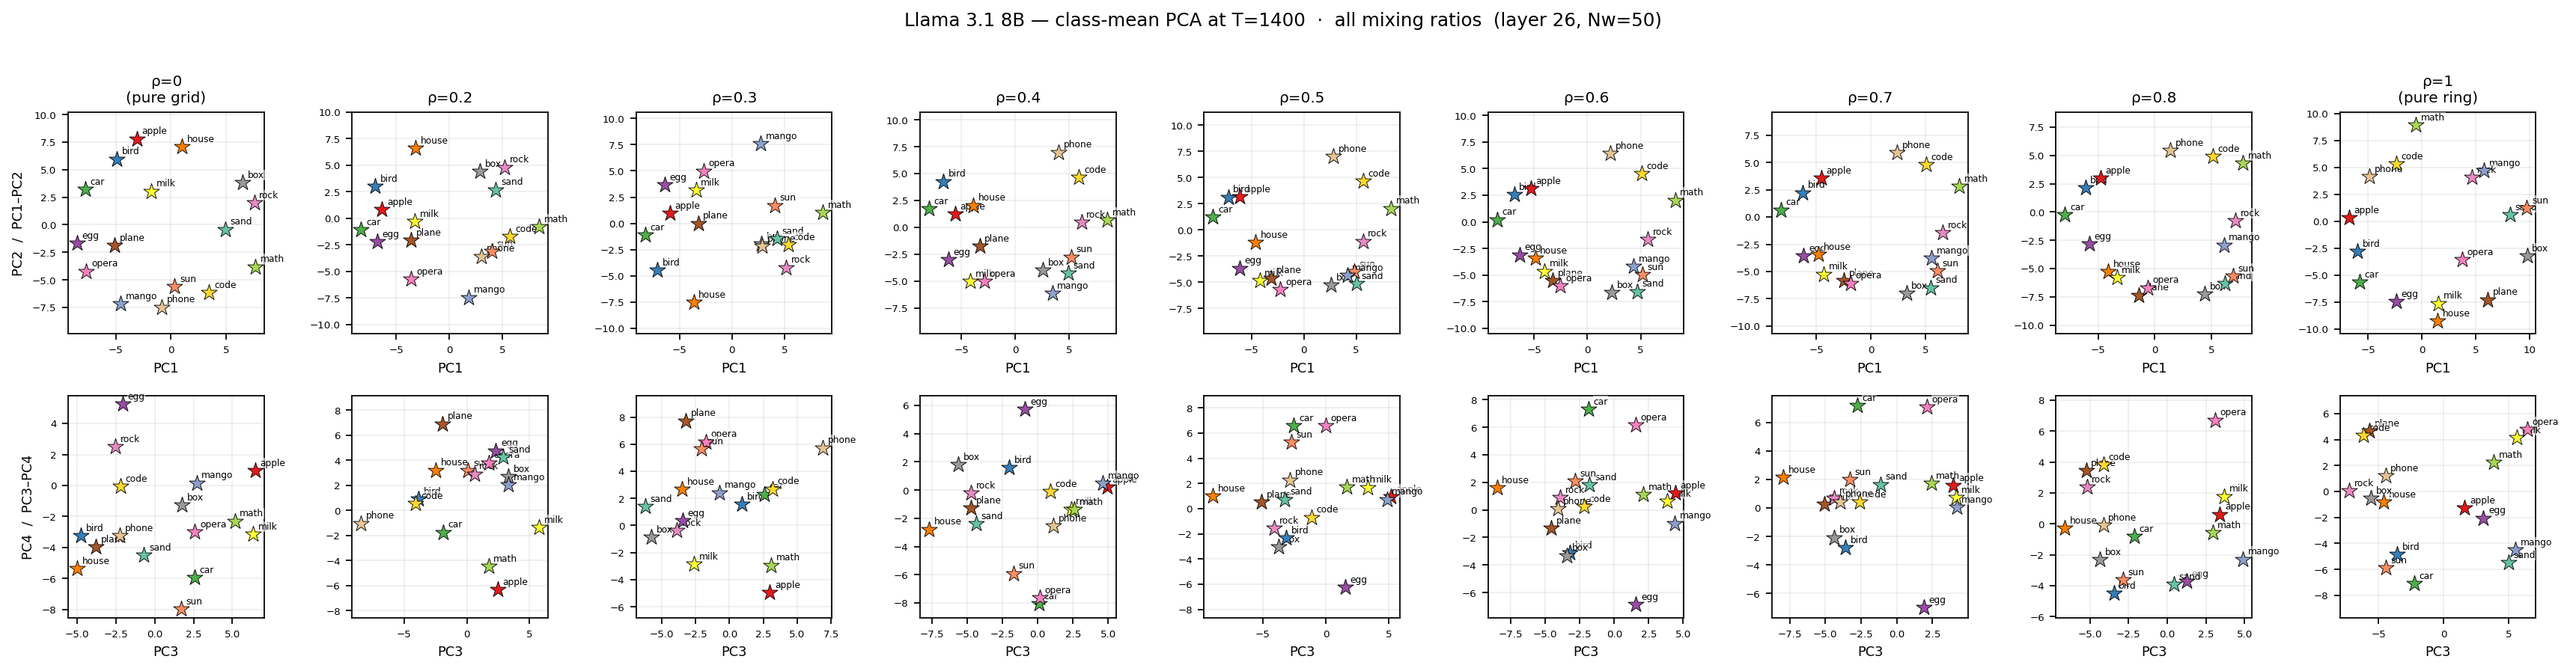
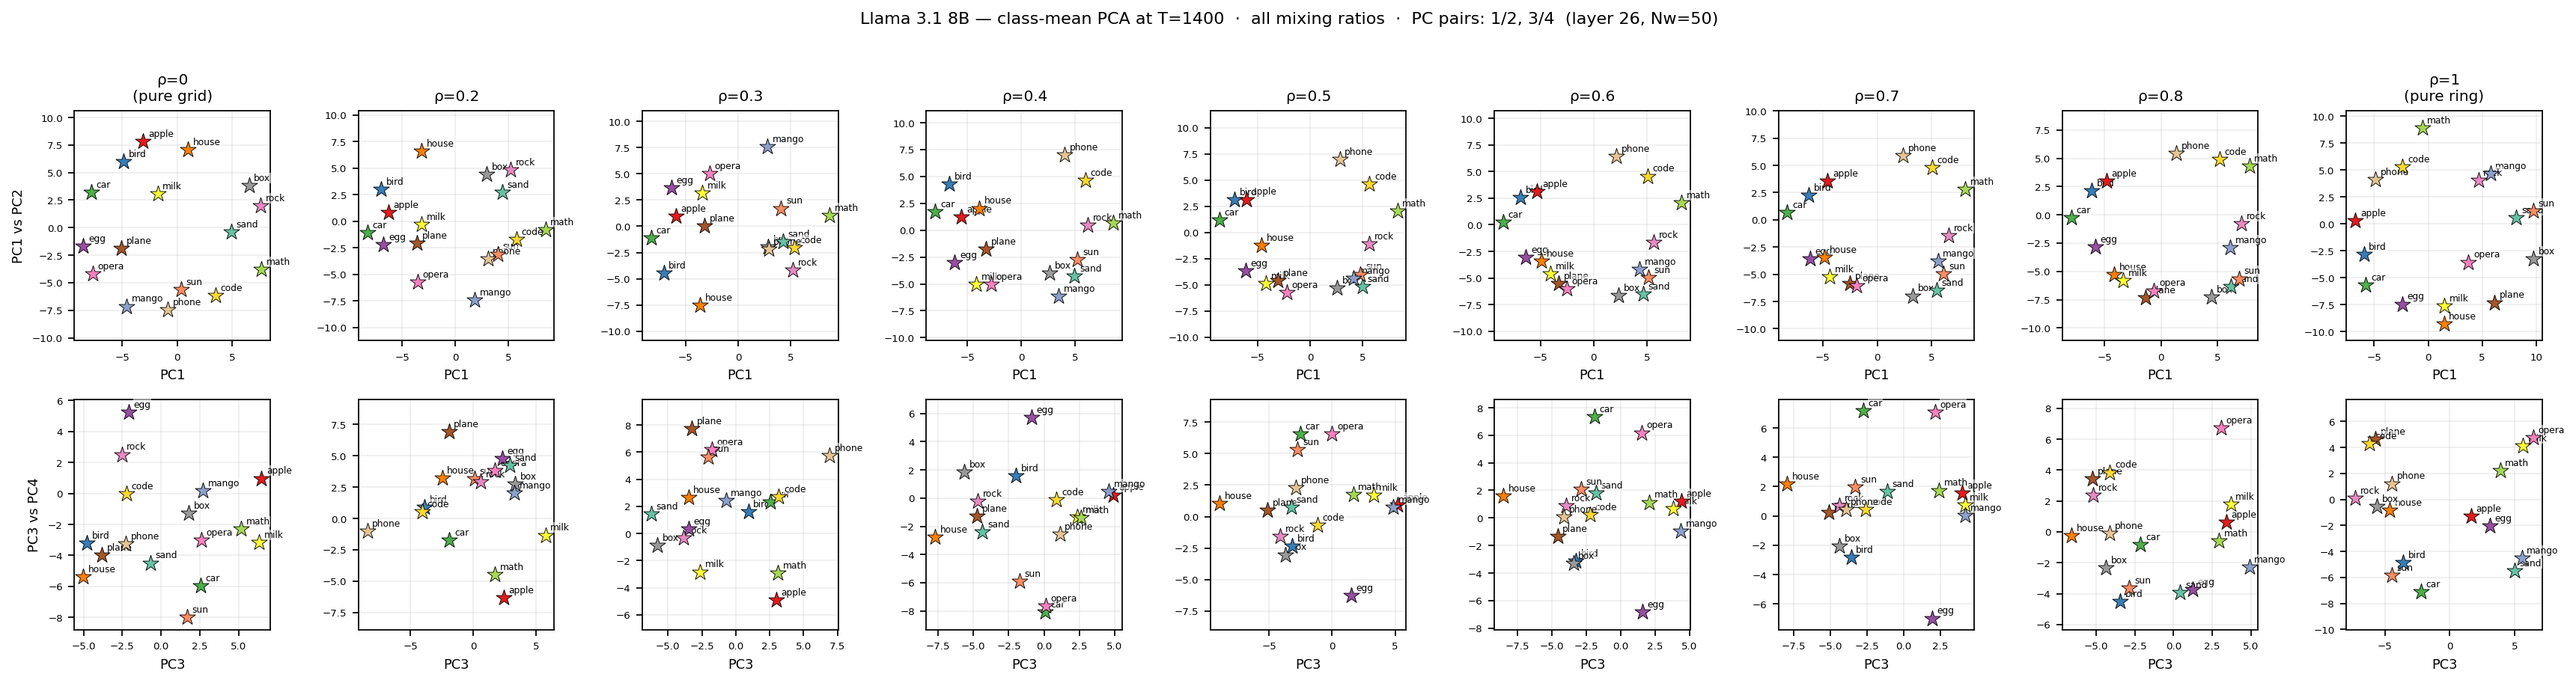
Enhance PCA grid figure generation with customizable PC pairs and improved layout
- Added `pc_pairs` parameter to `make_rho_grid_figure` and `make_rho_grid_figure_split` functions for flexible PCA pair selection.
- Adjusted subplot dimensions based on the number of PC pairs.
- Updated figure titles to include selected PC pairs for better clarity.
- Modified layout for improved visual representation of grid and ring structures.

diff --git a/src/secondary_experiments/plot_pca_rho_grid.py b/src/secondary_experiments/plot_pca_rho_grid.py
@@ -161,6 +161,8 @@ def make_rho_grid_figure(
     results_dir: Path = RESULTS_DIR,
     out_path: Path | None = None,
     with_structure: bool = False,
+    pc_pairs: list[tuple[int, int]] | None = None,
+    suffix: str = "",
 ) -> Path:
     # Only keep columns whose NPZ file exists.
     available = [
@@ -174,13 +176,16 @@ def make_rho_grid_figure(
             "Run `python -m src.secondary_experiments.run_pca_all` first."
         )
 
+    pairs = pc_pairs if pc_pairs is not None else [(1, 2), (3, 4)]
+    n_rows = len(pairs)
+
     # Pre-load full adjacency matrices (16×16, WORDS order) once if needed.
     adj_full: dict[str, np.ndarray] = _get_adjacencies() if with_structure else {}
 
     n_cols = len(available)
     fig, axes = plt.subplots(
-        2, n_cols,
-        figsize=(2.4 * n_cols, 5.5),
+        n_rows, n_cols,
+        figsize=(2.4 * n_cols, 2.8 * n_rows),
         squeeze=False,
     )
 
@@ -241,7 +246,7 @@ def make_rho_grid_figure(
                 A_p = A_full[np.ix_(present, present)]
                 edge_overlays.append((A_p, color))
 
-        for row, (pc_x, pc_y) in enumerate([(1, 2), (3, 4)]):
+        for row, (pc_x, pc_y) in enumerate(pairs):
             n_missing = len(WORDS) - n_present
             col_title = label if row == 0 else ""
             if col_title and n_missing:
@@ -258,8 +263,8 @@ def make_rho_grid_figure(
             )
 
     # Row labels on the left-most column.
-    for row, (pc_x, pc_y) in enumerate([(1, 2), (3, 4)]):
-        axes[row, 0].set_ylabel(f"PC{pc_y}  /  PC{pc_x}–PC{pc_y}", fontsize=8)
+    for row, (pc_x, pc_y) in enumerate(pairs):
+        axes[row, 0].set_ylabel(f"PC{pc_x} vs PC{pc_y}", fontsize=8)
 
     # Legend for structure figure.
     if with_structure:
@@ -277,18 +282,19 @@ def make_rho_grid_figure(
             bbox_to_anchor=(0.5, -0.02),
         )
 
-    suffix = "_structure" if with_structure else ""
-    title_note = " + ideal graph edges" if with_structure else ""
+    struct_sfx  = "_structure" if with_structure else ""
+    title_note  = " + ideal graph edges" if with_structure else ""
+    pairs_label = "  ·  PC pairs: " + ", ".join(f"{a}/{b}" for a, b in pairs)
     fig.suptitle(
         f"Llama 3.1 8B — class-mean PCA at T={T}  ·  all mixing ratios"
-        f"{title_note}  (layer 26, Nw=50)",
-        fontsize=11,
+        f"{title_note}{pairs_label}  (layer 26, Nw=50)",
+        fontsize=10,
         y=1.01,
     )
     fig.tight_layout()
 
     if out_path is None:
-        out_path = results_dir / f"pca_rho_grid_T{T}{suffix}.png"
+        out_path = results_dir / f"pca_rho_grid_T{T}{suffix}{struct_sfx}.png"
     out_path = Path(out_path)
     out_path.parent.mkdir(parents=True, exist_ok=True)
     fig.savefig(out_path, dpi=160, bbox_inches="tight")
@@ -301,13 +307,18 @@ def make_rho_grid_figure_split(
     T: int = 1400,
     results_dir: Path = RESULTS_DIR,
     out_path: Path | None = None,
+    pc_pairs: list[tuple[int, int]] | None = None,
+    suffix: str = "",
 ) -> Path:
-    """4-row × N-column figure: grid edges on top half, ring edges on bottom half.
+    """(2×len(pc_pairs))-row × N-column figure.
 
-    Rows 0–1: PC1/2 and PC3/4 with only grid edges (blue).
-    Rows 2–3: PC1/2 and PC3/4 with only ring edges (red).
+    Top half: pc_pairs rows with grid edges (blue).
+    Bottom half: same pc_pairs rows with ring edges (red).
     Each column is one mixing ratio.
     """
+    pairs = pc_pairs if pc_pairs is not None else [(1, 2), (3, 4)]
+    n_pair_rows = len(pairs)
+
     available = [
         (rho, rel, label)
         for rho, rel, label in _LADDER
@@ -319,23 +330,23 @@ def make_rho_grid_figure_split(
     adj_full = _get_adjacencies()
     n_cols   = len(available)
 
-    # 4 rows: [grid PC1/2, grid PC3/4, ring PC1/2, ring PC3/4]
-    ROW_SPEC = [
-        (0, (1, 2), "grid", _GRID_EDGE_COLOR),
-        (1, (3, 4), "grid", _GRID_EDGE_COLOR),
-        (2, (1, 2), "ring", _RING_EDGE_COLOR),
-        (3, (3, 4), "ring", _RING_EDGE_COLOR),
-    ]
+    # Build row spec: grid block then ring block, each with all pc_pairs.
+    ROW_SPEC = []
+    for i, (pc_x, pc_y) in enumerate(pairs):
+        ROW_SPEC.append((i, (pc_x, pc_y), "grid", _GRID_EDGE_COLOR))
+    for i, (pc_x, pc_y) in enumerate(pairs):
+        ROW_SPEC.append((n_pair_rows + i, (pc_x, pc_y), "ring", _RING_EDGE_COLOR))
 
+    n_rows_total = 2 * n_pair_rows
     fig, axes = plt.subplots(
-        4, n_cols,
-        figsize=(2.4 * n_cols, 10.5),
+        n_rows_total, n_cols,
+        figsize=(2.4 * n_cols, 2.8 * n_rows_total),
         squeeze=False,
     )
 
-    # Horizontal divider between the two blocks.
+    # Horizontal divider between the grid and ring blocks.
     from matplotlib.lines import Line2D
-    for col_ax in axes[2]:
+    for col_ax in axes[n_pair_rows]:
         col_ax.spines["top"].set_linewidth(2.0)
         col_ax.spines["top"].set_color("#444444")
 
@@ -369,12 +380,8 @@ def make_rho_grid_figure_split(
         pca_dirs  = _compute_pca(H, k=4)
         projected = H @ pca_dirs.T
 
-        for row_idx, (pc_x, pc_y), graph_name, color in [
-            (r, pc, g, c) for r, pc, g, c in ROW_SPEC
-        ]:
+        for row_idx, (pc_x, pc_y), graph_name, color in ROW_SPEC:
             # Only draw the edges that belong to the current half.
-            # For pure-grid columns: skip ring rows (no ring signal).
-            # For pure-ring columns: skip grid rows (no grid signal).
             if rho == 0.0 and graph_name == "ring":
                 edge_overlays = None
             elif rho == 1.0 and graph_name == "grid":
@@ -383,12 +390,13 @@ def make_rho_grid_figure_split(
                 A_p = adj_full[graph_name][np.ix_(present, present)]
                 edge_overlays = [(A_p, color)]
 
-            # Column title only on row 0 and row 2 (top of each block).
+            # Column title at top of each block.
+            n_missing = len(WORDS) - n_present
+            miss_tag = f"\n({n_missing} unseen)" if n_missing else ""
             if row_idx == 0:
-                n_missing = len(WORDS) - n_present
-                col_title = label + (f"\n({n_missing} unseen)" if n_missing else "")
-            elif row_idx == 2:
-                col_title = label   # repeat ρ label at top of ring block
+                col_title = label + miss_tag
+            elif row_idx == n_pair_rows:
+                col_title = label + miss_tag
             else:
                 col_title = ""
 
@@ -402,13 +410,12 @@ def make_rho_grid_figure_split(
             )
 
     # Y-axis labels for the left-most column.
-    row_ylabels = ["PC1 vs PC2", "PC3 vs PC4", "PC1 vs PC2", "PC3 vs PC4"]
-    for row_idx, ylabel in enumerate(row_ylabels):
-        axes[row_idx, 0].set_ylabel(ylabel, fontsize=8)
+    for row_idx, (_, (pc_x, pc_y), _, _) in enumerate(ROW_SPEC):
+        axes[row_idx, 0].set_ylabel(f"PC{pc_x} vs PC{pc_y}", fontsize=8)
 
     # Block labels on the far left.
     for block_row, block_label, color in [(0, "Grid edges →", _GRID_EDGE_COLOR),
-                                           (2, "Ring edges →", _RING_EDGE_COLOR)]:
+                                           (n_pair_rows, "Ring edges →", _RING_EDGE_COLOR)]:
         fig.text(
             0.005, 1 - (block_row / 4) - 0.12,
             block_label,
@@ -424,16 +431,16 @@ def make_rho_grid_figure_split(
     fig.legend(handles=legend_elements, loc="lower center", ncol=2,
                fontsize=8, framealpha=0.85, bbox_to_anchor=(0.5, -0.01))
 
+    pairs_label = ", ".join(f"{a}/{b}" for a, b in pairs)
     fig.suptitle(
         f"Llama 3.1 8B — class-mean PCA at T={T}  ·  all mixing ratios\n"
-        f"Top: grid structure overlay   ·   Bottom: ring structure overlay   "
-        f"(layer 26, Nw=50)",
-        fontsize=11, y=1.005,
+        f"Top: grid edges  ·  Bottom: ring edges  ·  PC pairs: {pairs_label}  (layer 26, Nw=50)",
+        fontsize=10, y=1.005,
     )
     fig.tight_layout()
 
     if out_path is None:
-        out_path = results_dir / f"pca_rho_grid_T{T}_split.png"
+        out_path = results_dir / f"pca_rho_grid_T{T}{suffix}_split.png"
     out_path = Path(out_path)
     out_path.parent.mkdir(parents=True, exist_ok=True)
     fig.savefig(out_path, dpi=160, bbox_inches="tight")
@@ -463,28 +470,45 @@ def parse_args() -> argparse.Namespace:
     )
     parser.add_argument(
         "--split", action="store_true",
-        help="Produce the 4-row split figure: grid edges on top, ring on bottom.",
+        help="Produce the split figure: grid edges on top block, ring on bottom.",
+    )
+    parser.add_argument(
+        "--off-diagonal", action="store_true",
+        help="Also produce figures for PC pairs 1/3, 1/4, 2/3, 2/4.",
     )
     return parser.parse_args()
+
+
+_STANDARD_PAIRS:    list[tuple[int, int]] = [(1, 2), (3, 4)]
+_OFFDIAGONAL_PAIRS: list[tuple[int, int]] = [(1, 3), (1, 4), (2, 3), (2, 4)]
 
 
 def main() -> None:
     args = parse_args()
     rd = Path(args.results_dir)
 
-    # Plain scatter (always).
-    make_rho_grid_figure(T=args.T, results_dir=rd,
-                         out_path=Path(args.out) if args.out else None,
-                         with_structure=False)
+    pair_sets: list[tuple[list[tuple[int, int]], str]] = [(_STANDARD_PAIRS, "")]
+    if args.off_diagonal:
+        pair_sets.append((_OFFDIAGONAL_PAIRS, "_offdiag"))
 
-    # Combined-overlay version.
-    if args.with_structure:
-        make_rho_grid_figure(T=args.T, results_dir=rd,
-                             out_path=None, with_structure=True)
-
-    # Split 4-row version.
-    if args.split:
-        make_rho_grid_figure_split(T=args.T, results_dir=rd)
+    for pairs, sfx in pair_sets:
+        # Plain scatter.
+        make_rho_grid_figure(
+            T=args.T, results_dir=rd,
+            out_path=Path(args.out) if (args.out and not sfx) else None,
+            with_structure=False, pc_pairs=pairs, suffix=sfx,
+        )
+        # Combined-overlay.
+        if args.with_structure:
+            make_rho_grid_figure(
+                T=args.T, results_dir=rd, out_path=None,
+                with_structure=True, pc_pairs=pairs, suffix=sfx,
+            )
+        # Split (grid / ring separately).
+        if args.split:
+            make_rho_grid_figure_split(
+                T=args.T, results_dir=rd, pc_pairs=pairs, suffix=sfx,
+            )
 
 
 if __name__ == "__main__":
